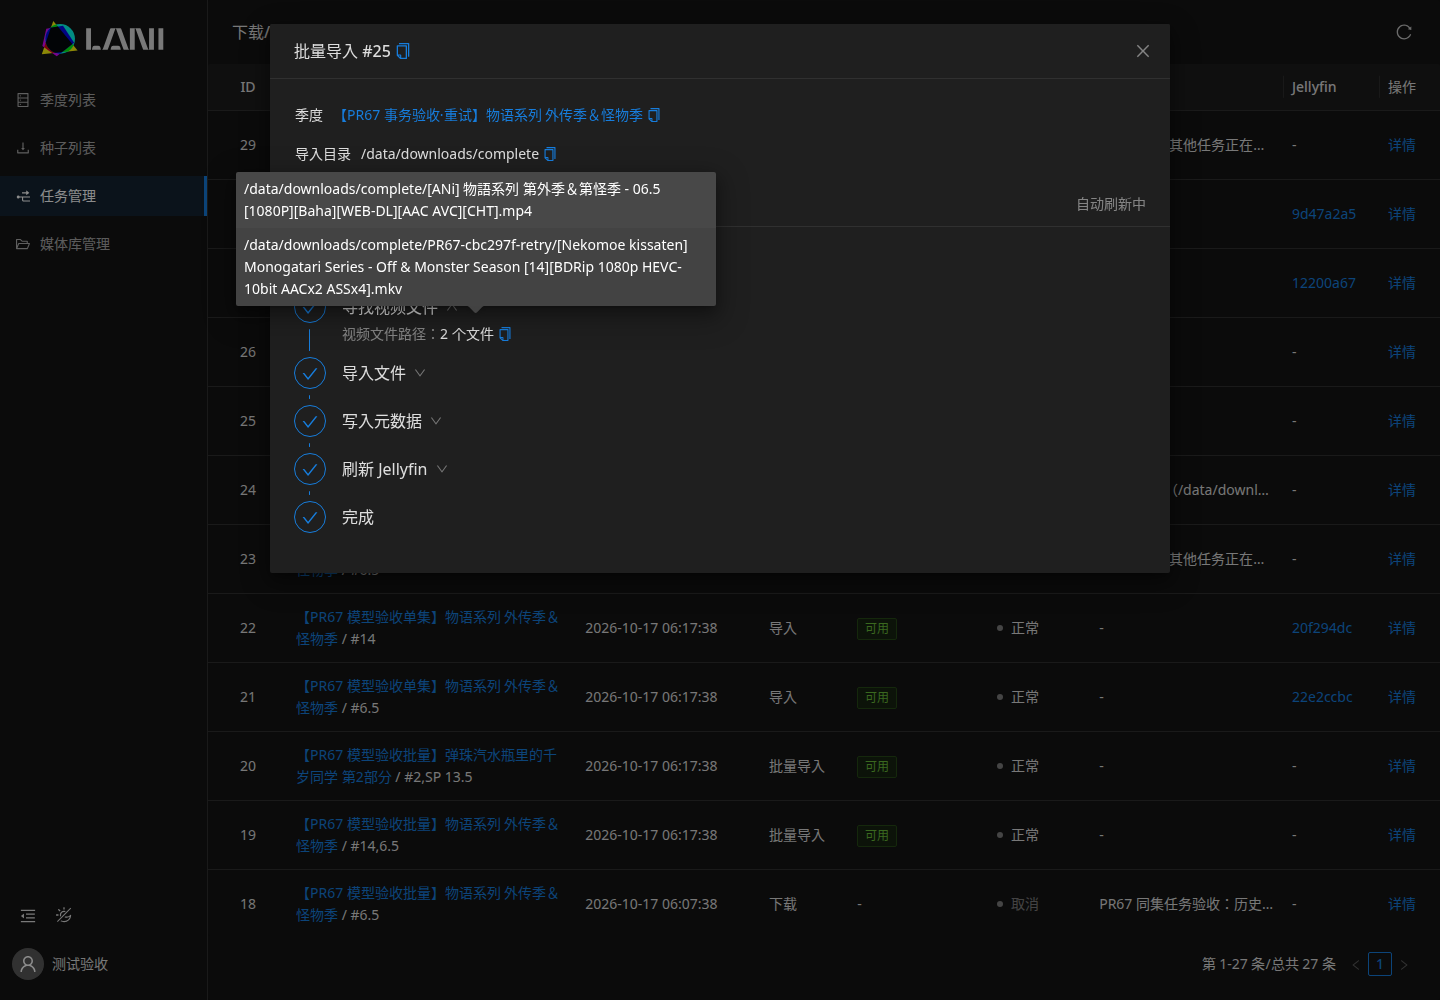
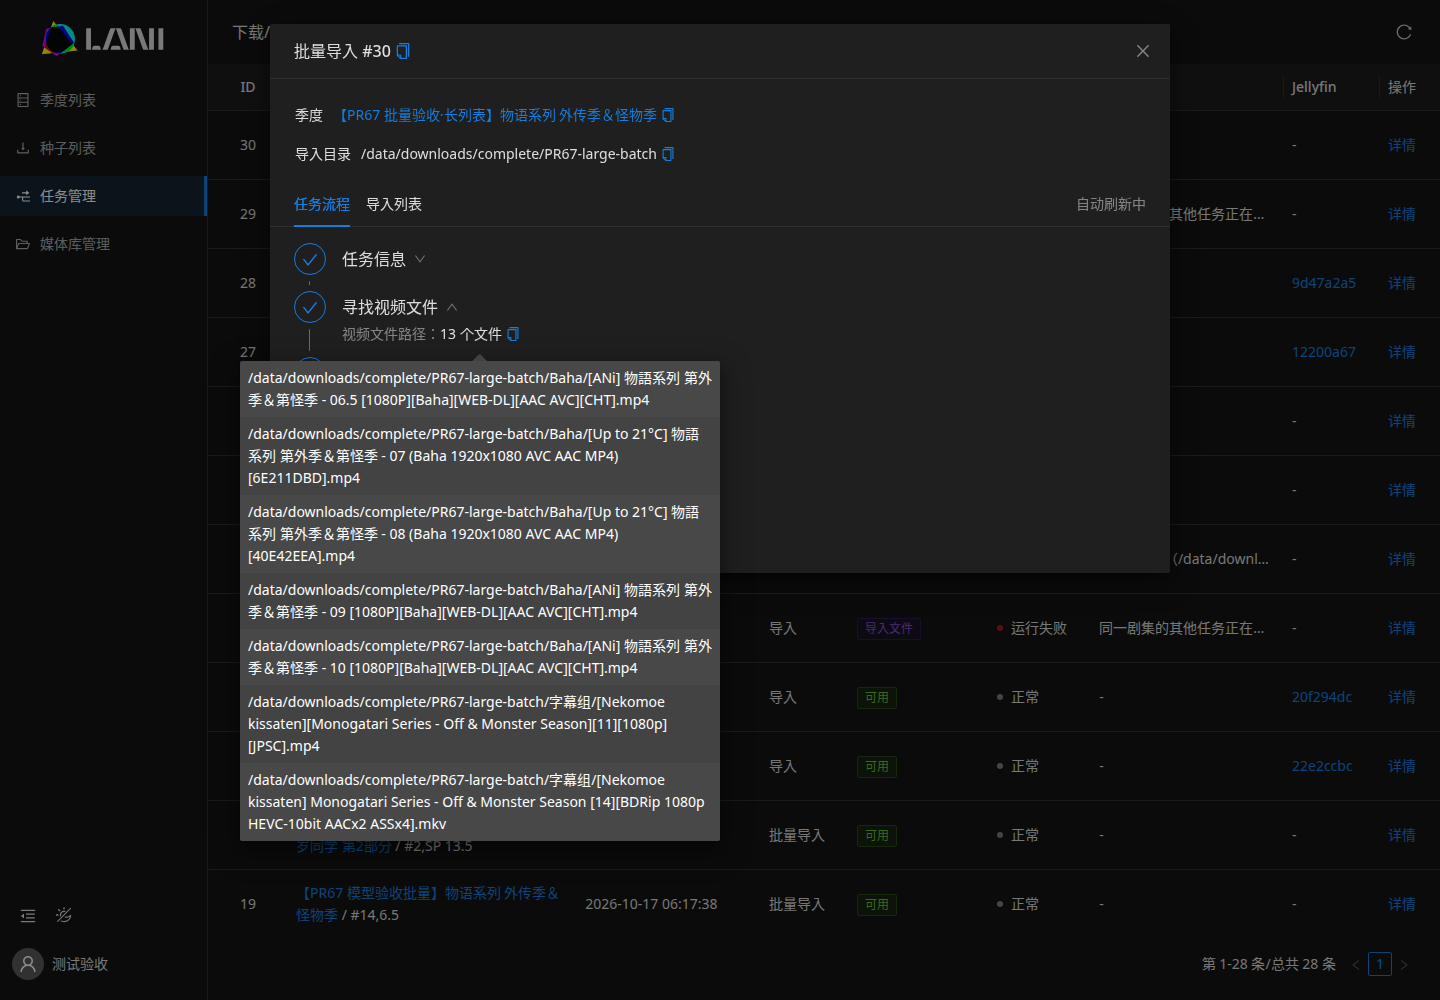
fix(admin): 限制路径提示高度并支持内部滚动

diff --git a/apps/admin/src/components/TaskWorkflow/index.module.less b/apps/admin/src/components/TaskWorkflow/index.module.less
@@ -6,7 +6,11 @@
 
   :global(.ant-tooltip-inner) {
     padding: 0;
-    overflow: hidden;
+    max-height: ~'min(480px, calc(100vh - 48px))';
+    max-height: ~'min(480px, calc(100dvh - 48px))';
+    overflow-x: hidden;
+    overflow-y: auto;
+    overscroll-behavior: contain;
 
     > div {
       padding: 6px 8px;
